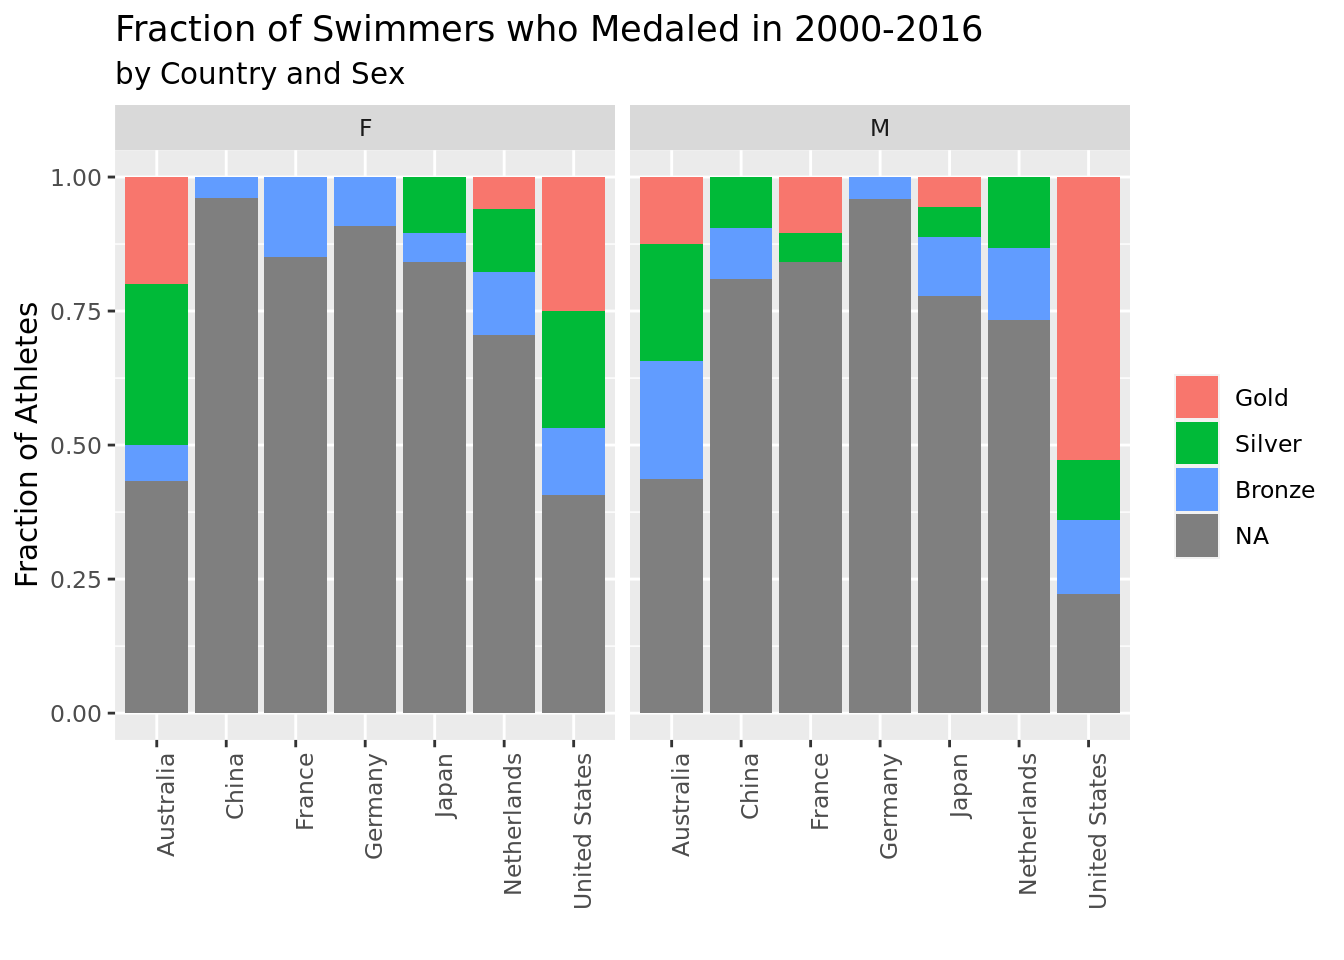
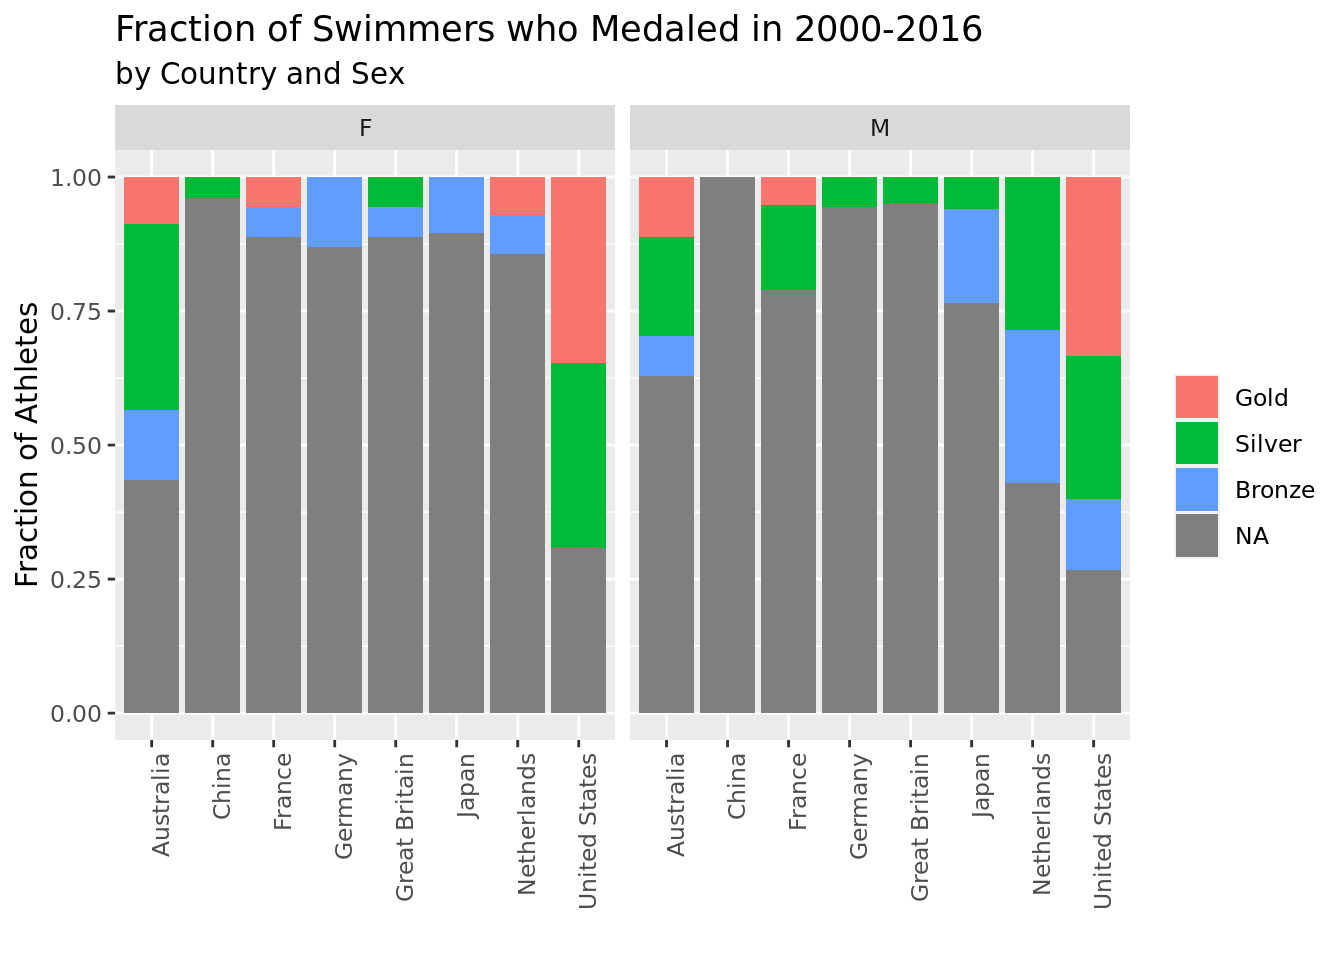
revised ggplot

diff --git a/docs/report.html b/docs/report.html
@@ -260,7 +260,7 @@ code span.wa { color: #60a0b0; font-weight: bold; font-style: italic; } /* Warni
 ✖ dplyr::lag()      masks stats::lag()
 ✖ yardstick::spec() masks readr::spec()
 ✖ recipes::step()   masks stats::step()
-• Search for functions across packages at https://www.tidymodels.org/find/</code></pre>
+• Use suppressPackageStartupMessages() to eliminate package startup messages</code></pre>
 </div>
 <div class="sourceCode cell-code" id="cb5"><pre class="sourceCode r code-with-copy"><code class="sourceCode r"><span id="cb5-1"><a href="#cb5-1" aria-hidden="true" tabindex="-1"></a><span class="fu">library</span>(lubridate)</span></code><button title="Copy to Clipboard" class="code-copy-button"><i class="bi"></i></button></pre></div>
 <div class="cell-output cell-output-stderr">
@@ -301,7 +301,7 @@ The following objects are masked from 'package:base':
 <span id="cb9-3"><a href="#cb9-3" aria-hidden="true" tabindex="-1"></a>         Year <span class="sc">&gt;</span> <span class="dv">1999</span>,</span>
 <span id="cb9-4"><a href="#cb9-4" aria-hidden="true" tabindex="-1"></a>         Team <span class="sc">==</span> <span class="fu">c</span>(<span class="st">"Australia"</span>, <span class="st">"China"</span>, <span class="st">"France"</span>,</span>
 <span id="cb9-5"><a href="#cb9-5" aria-hidden="true" tabindex="-1"></a>                   <span class="st">"Germany"</span>, <span class="st">"Japan"</span>, <span class="st">"Netherlands"</span>,</span>
-<span id="cb9-6"><a href="#cb9-6" aria-hidden="true" tabindex="-1"></a>                   <span class="st">"United States"</span>)) <span class="sc">|&gt;</span></span>
+<span id="cb9-6"><a href="#cb9-6" aria-hidden="true" tabindex="-1"></a>                   <span class="st">"United States"</span>, <span class="st">"Great Britain"</span>)) <span class="sc">|&gt;</span></span>
 <span id="cb9-7"><a href="#cb9-7" aria-hidden="true" tabindex="-1"></a>  <span class="fu">mutate</span>(<span class="at">medal =</span> <span class="fu">as.factor</span>(Medal), </span>
 <span id="cb9-8"><a href="#cb9-8" aria-hidden="true" tabindex="-1"></a>         <span class="at">medal =</span> <span class="fu">fct_relevel</span>(Medal, <span class="st">"Gold"</span>, <span class="st">"Silver"</span>,</span>
 <span id="cb9-9"><a href="#cb9-9" aria-hidden="true" tabindex="-1"></a>                             <span class="st">"Bronze"</span>, <span class="st">"No Medal"</span>)) <span class="sc">|&gt;</span></span>
@@ -390,6 +390,50 @@ longer object length is not a multiple of shorter object length</code></pre>
 </div>
 </div>
 <p>The typical BMI, height, and weight for swimmers increased as their medal rank did (so the typical gold winner was slightly taller and heavier, and had a higher BMI than the other medalists as well as non-medalists). These results are conserved across sex in each category. The age of the swimmer had no meaningful correlation with results; there are slight differences between medal categories but no large effect or clear trend.</p>
+<div class="cell">
+<div class="sourceCode cell-code" id="cb19"><pre class="sourceCode r code-with-copy"><code class="sourceCode r"><span id="cb19-1"><a href="#cb19-1" aria-hidden="true" tabindex="-1"></a>olympics_new <span class="sc">|&gt;</span> </span>
+<span id="cb19-2"><a href="#cb19-2" aria-hidden="true" tabindex="-1"></a>  <span class="fu">filter</span>(Sport <span class="sc">==</span> <span class="st">"Swimming"</span>, Year <span class="sc">&gt;</span> <span class="dv">1999</span>) <span class="sc">|&gt;</span> </span>
+<span id="cb19-3"><a href="#cb19-3" aria-hidden="true" tabindex="-1"></a>  <span class="fu">group_by</span>(Team) <span class="sc">|&gt;</span> </span>
+<span id="cb19-4"><a href="#cb19-4" aria-hidden="true" tabindex="-1"></a>  <span class="fu">filter</span>(medalyesno <span class="sc">==</span> <span class="st">"yes"</span>) <span class="sc">|&gt;</span> </span>
+<span id="cb19-5"><a href="#cb19-5" aria-hidden="true" tabindex="-1"></a>  <span class="fu">count</span>(medalyesno) <span class="sc">|&gt;</span> </span>
+<span id="cb19-6"><a href="#cb19-6" aria-hidden="true" tabindex="-1"></a>  <span class="fu">arrange</span>(<span class="fu">desc</span>(n))</span></code><button title="Copy to Clipboard" class="code-copy-button"><i class="bi"></i></button></pre></div>
+<div class="cell-output cell-output-stdout">
+<pre><code># A tibble: 38 × 3
+# Groups:   Team [38]
+   Team          medalyesno     n
+   &lt;chr&gt;         &lt;chr&gt;      &lt;int&gt;
+ 1 United States yes          338
+ 2 Australia     yes          195
+ 3 Japan         yes           53
+ 4 Netherlands   yes           48
+ 5 France        yes           47
+ 6 China         yes           41
+ 7 Germany       yes           32
+ 8 Great Britain yes           24
+ 9 Russia        yes           24
+10 Canada        yes           20
+# … with 28 more rows</code></pre>
+</div>
+<div class="sourceCode cell-code" id="cb21"><pre class="sourceCode r code-with-copy"><code class="sourceCode r"><span id="cb21-1"><a href="#cb21-1" aria-hidden="true" tabindex="-1"></a>medal_colors <span class="ot">&lt;-</span> <span class="fu">c</span>(<span class="st">"Gold"</span> <span class="ot">=</span> <span class="st">"#FFD700"</span>, <span class="st">"Silver"</span> <span class="ot">=</span> <span class="st">"#C0C0C0"</span>, <span class="st">"Bronze"</span> <span class="ot">=</span> <span class="st">"#CD7F32"</span>)</span>
+<span id="cb21-2"><a href="#cb21-2" aria-hidden="true" tabindex="-1"></a></span>
+<span id="cb21-3"><a href="#cb21-3" aria-hidden="true" tabindex="-1"></a>olympics_new <span class="sc">|&gt;</span> </span>
+<span id="cb21-4"><a href="#cb21-4" aria-hidden="true" tabindex="-1"></a>  <span class="fu">filter</span>(Sport <span class="sc">==</span> <span class="st">"Swimming"</span>, Year <span class="sc">&gt;</span> <span class="dv">1979</span>, medalyesno <span class="sc">==</span> <span class="st">"yes"</span>) <span class="sc">|&gt;</span> </span>
+<span id="cb21-5"><a href="#cb21-5" aria-hidden="true" tabindex="-1"></a>  <span class="fu">group_by</span>(Team) <span class="sc">|&gt;</span></span>
+<span id="cb21-6"><a href="#cb21-6" aria-hidden="true" tabindex="-1"></a>  <span class="fu">filter</span>(<span class="fu">n</span>() <span class="sc">&gt;</span> <span class="dv">20</span>) <span class="sc">|&gt;</span></span>
+<span id="cb21-7"><a href="#cb21-7" aria-hidden="true" tabindex="-1"></a>  <span class="fu">count</span>(Team, Medal, <span class="at">name =</span> <span class="st">"Frequency"</span>) <span class="sc">|&gt;</span></span>
+<span id="cb21-8"><a href="#cb21-8" aria-hidden="true" tabindex="-1"></a>  <span class="fu">mutate</span>(<span class="at">Medal =</span> <span class="fu">factor</span>(Medal, <span class="at">levels =</span> <span class="fu">c</span>(<span class="st">"Gold"</span>, <span class="st">"Silver"</span>, <span class="st">"Bronze"</span>))) <span class="sc">|&gt;</span></span>
+<span id="cb21-9"><a href="#cb21-9" aria-hidden="true" tabindex="-1"></a>  <span class="fu">group_by</span>(Team) <span class="sc">|&gt;</span></span>
+<span id="cb21-10"><a href="#cb21-10" aria-hidden="true" tabindex="-1"></a>  <span class="fu">mutate</span>(<span class="at">Total_Medals =</span> <span class="fu">sum</span>(Frequency)) <span class="sc">|&gt;</span></span>
+<span id="cb21-11"><a href="#cb21-11" aria-hidden="true" tabindex="-1"></a>  <span class="fu">ungroup</span>() <span class="sc">|&gt;</span></span>
+<span id="cb21-12"><a href="#cb21-12" aria-hidden="true" tabindex="-1"></a>  <span class="fu">ggplot</span>(<span class="fu">aes</span>(<span class="at">x =</span> <span class="fu">reorder</span>(Team, <span class="sc">-</span>Total_Medals), <span class="at">y =</span> Frequency, <span class="at">fill =</span> Medal)) <span class="sc">+</span></span>
+<span id="cb21-13"><a href="#cb21-13" aria-hidden="true" tabindex="-1"></a>  <span class="fu">geom_col</span>() <span class="sc">+</span></span>
+<span id="cb21-14"><a href="#cb21-14" aria-hidden="true" tabindex="-1"></a>  <span class="fu">scale_fill_manual</span>(<span class="at">values =</span> medal_colors) <span class="sc">+</span></span>
+<span id="cb21-15"><a href="#cb21-15" aria-hidden="true" tabindex="-1"></a>  <span class="fu">labs</span>(<span class="at">x =</span> <span class="st">"Team"</span>, <span class="at">y =</span> <span class="st">"Number of Medals"</span>, <span class="at">fill =</span> <span class="st">"Medal"</span>) <span class="sc">+</span></span>
+<span id="cb21-16"><a href="#cb21-16" aria-hidden="true" tabindex="-1"></a>  <span class="fu">theme</span>(<span class="at">axis.text.x =</span> <span class="fu">element_text</span>(<span class="at">angle =</span> <span class="dv">45</span>, <span class="at">hjust =</span> <span class="dv">1</span>))</span></code><button title="Copy to Clipboard" class="code-copy-button"><i class="bi"></i></button></pre></div>
+<div class="cell-output-display">
+<p><img src="report_files/figure-html/unnamed-chunk-1-1.png" class="img-fluid" width="672"></p>
+</div>
+</div>
 </section>
 <section id="results" class="level1">
 <h1>Results</h1>

diff --git a/docs/index.html b/docs/index.html
@@ -221,7 +221,7 @@ code span.wa { color: #60a0b0; font-weight: bold; font-style: italic; } /* Warni
 ✖ dplyr::lag()      masks stats::lag()
 ✖ yardstick::spec() masks readr::spec()
 ✖ recipes::step()   masks stats::step()
-• Search for functions across packages at https://www.tidymodels.org/find/</code></pre>
+• Learn how to get started at https://www.tidymodels.org/start/</code></pre>
 </div>
 <div class="sourceCode cell-code" id="cb5"><pre class="sourceCode r code-with-copy"><code class="sourceCode r"><span id="cb5-1"><a href="#cb5-1" aria-hidden="true" tabindex="-1"></a><span class="fu">library</span>(lubridate)</span></code><button title="Copy to Clipboard" class="code-copy-button"><i class="bi"></i></button></pre></div>
 <div class="cell-output cell-output-stderr">
